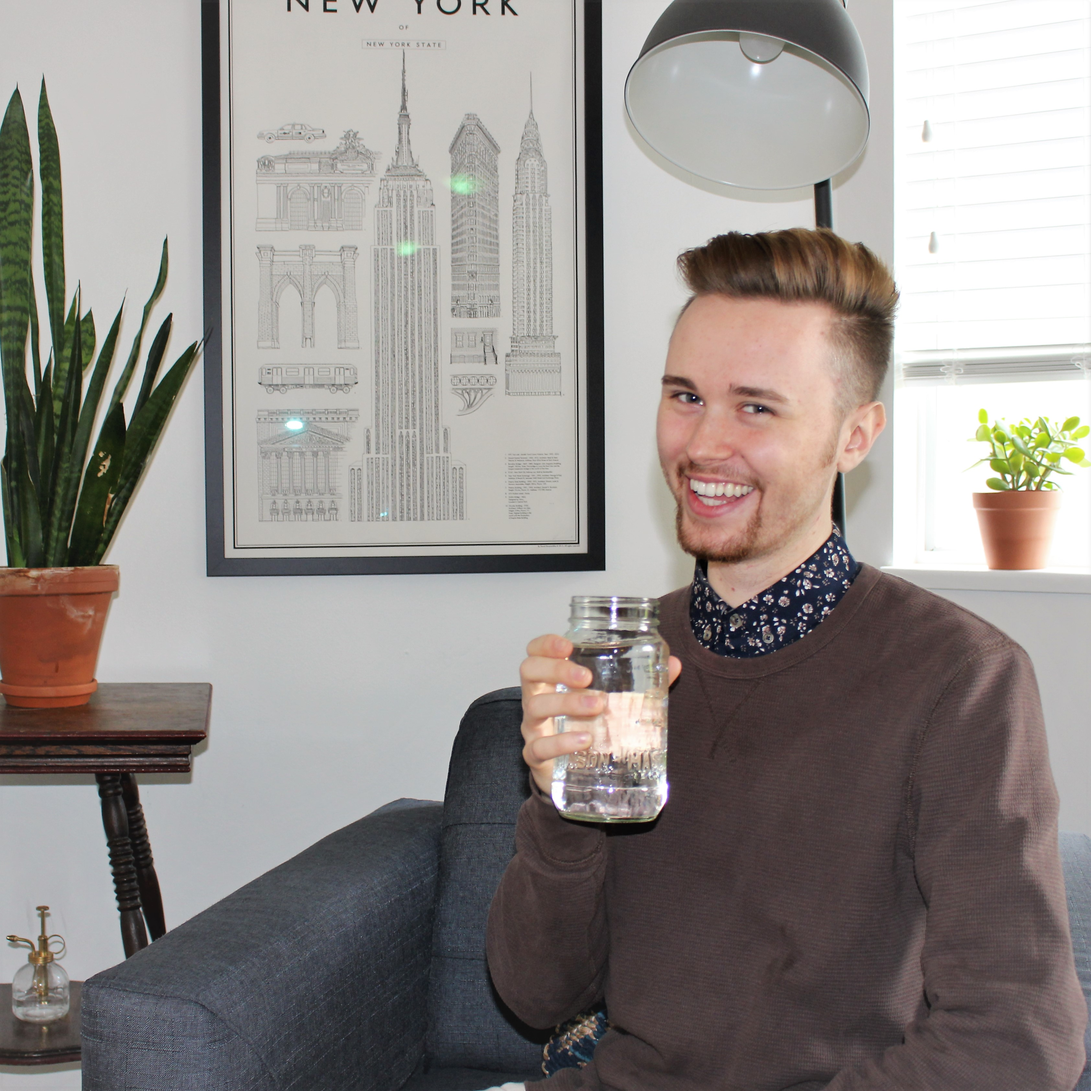
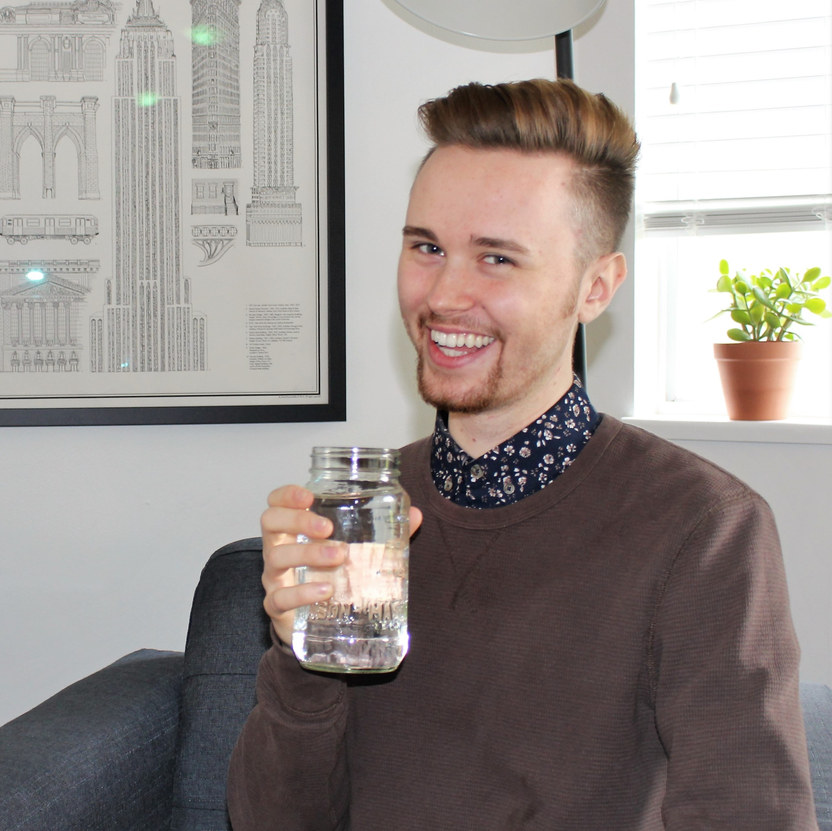
changing photo on website

diff --git a/index.html b/index.html
@@ -47,7 +47,7 @@
                 <h1>Dylan Weicker</h1>
                 <div class="row">
                     <div class="col-md-6 header-img">
-                        <img src="./images/double-peace.JPG">
+                        <img src="./images/water-selfie.JPG">
                     </div>
                     <div class="col-md-6 header-text">
                         <h3>Hello There !</h3>
@@ -649,7 +649,7 @@
                         <p>I have been making small computer games since I was thirteen years old. It is something I have a bit of experience and a keen interest in. I hope to one day entertain the world with a large-scale game that I helped to create.</p>
                     </div>
                 </div>
-                <div class="row">
+                <!--div class="row">
                     <div class="col-md-4">
                         <div class="values-photo">
                             <img src="./images/think.png">
@@ -661,7 +661,7 @@
                         <p>AI is important.</p>
                         <p>I can do AI.</p>
                     </div>
-                </div>
+                </div -->
             </div>
         </div>
 
